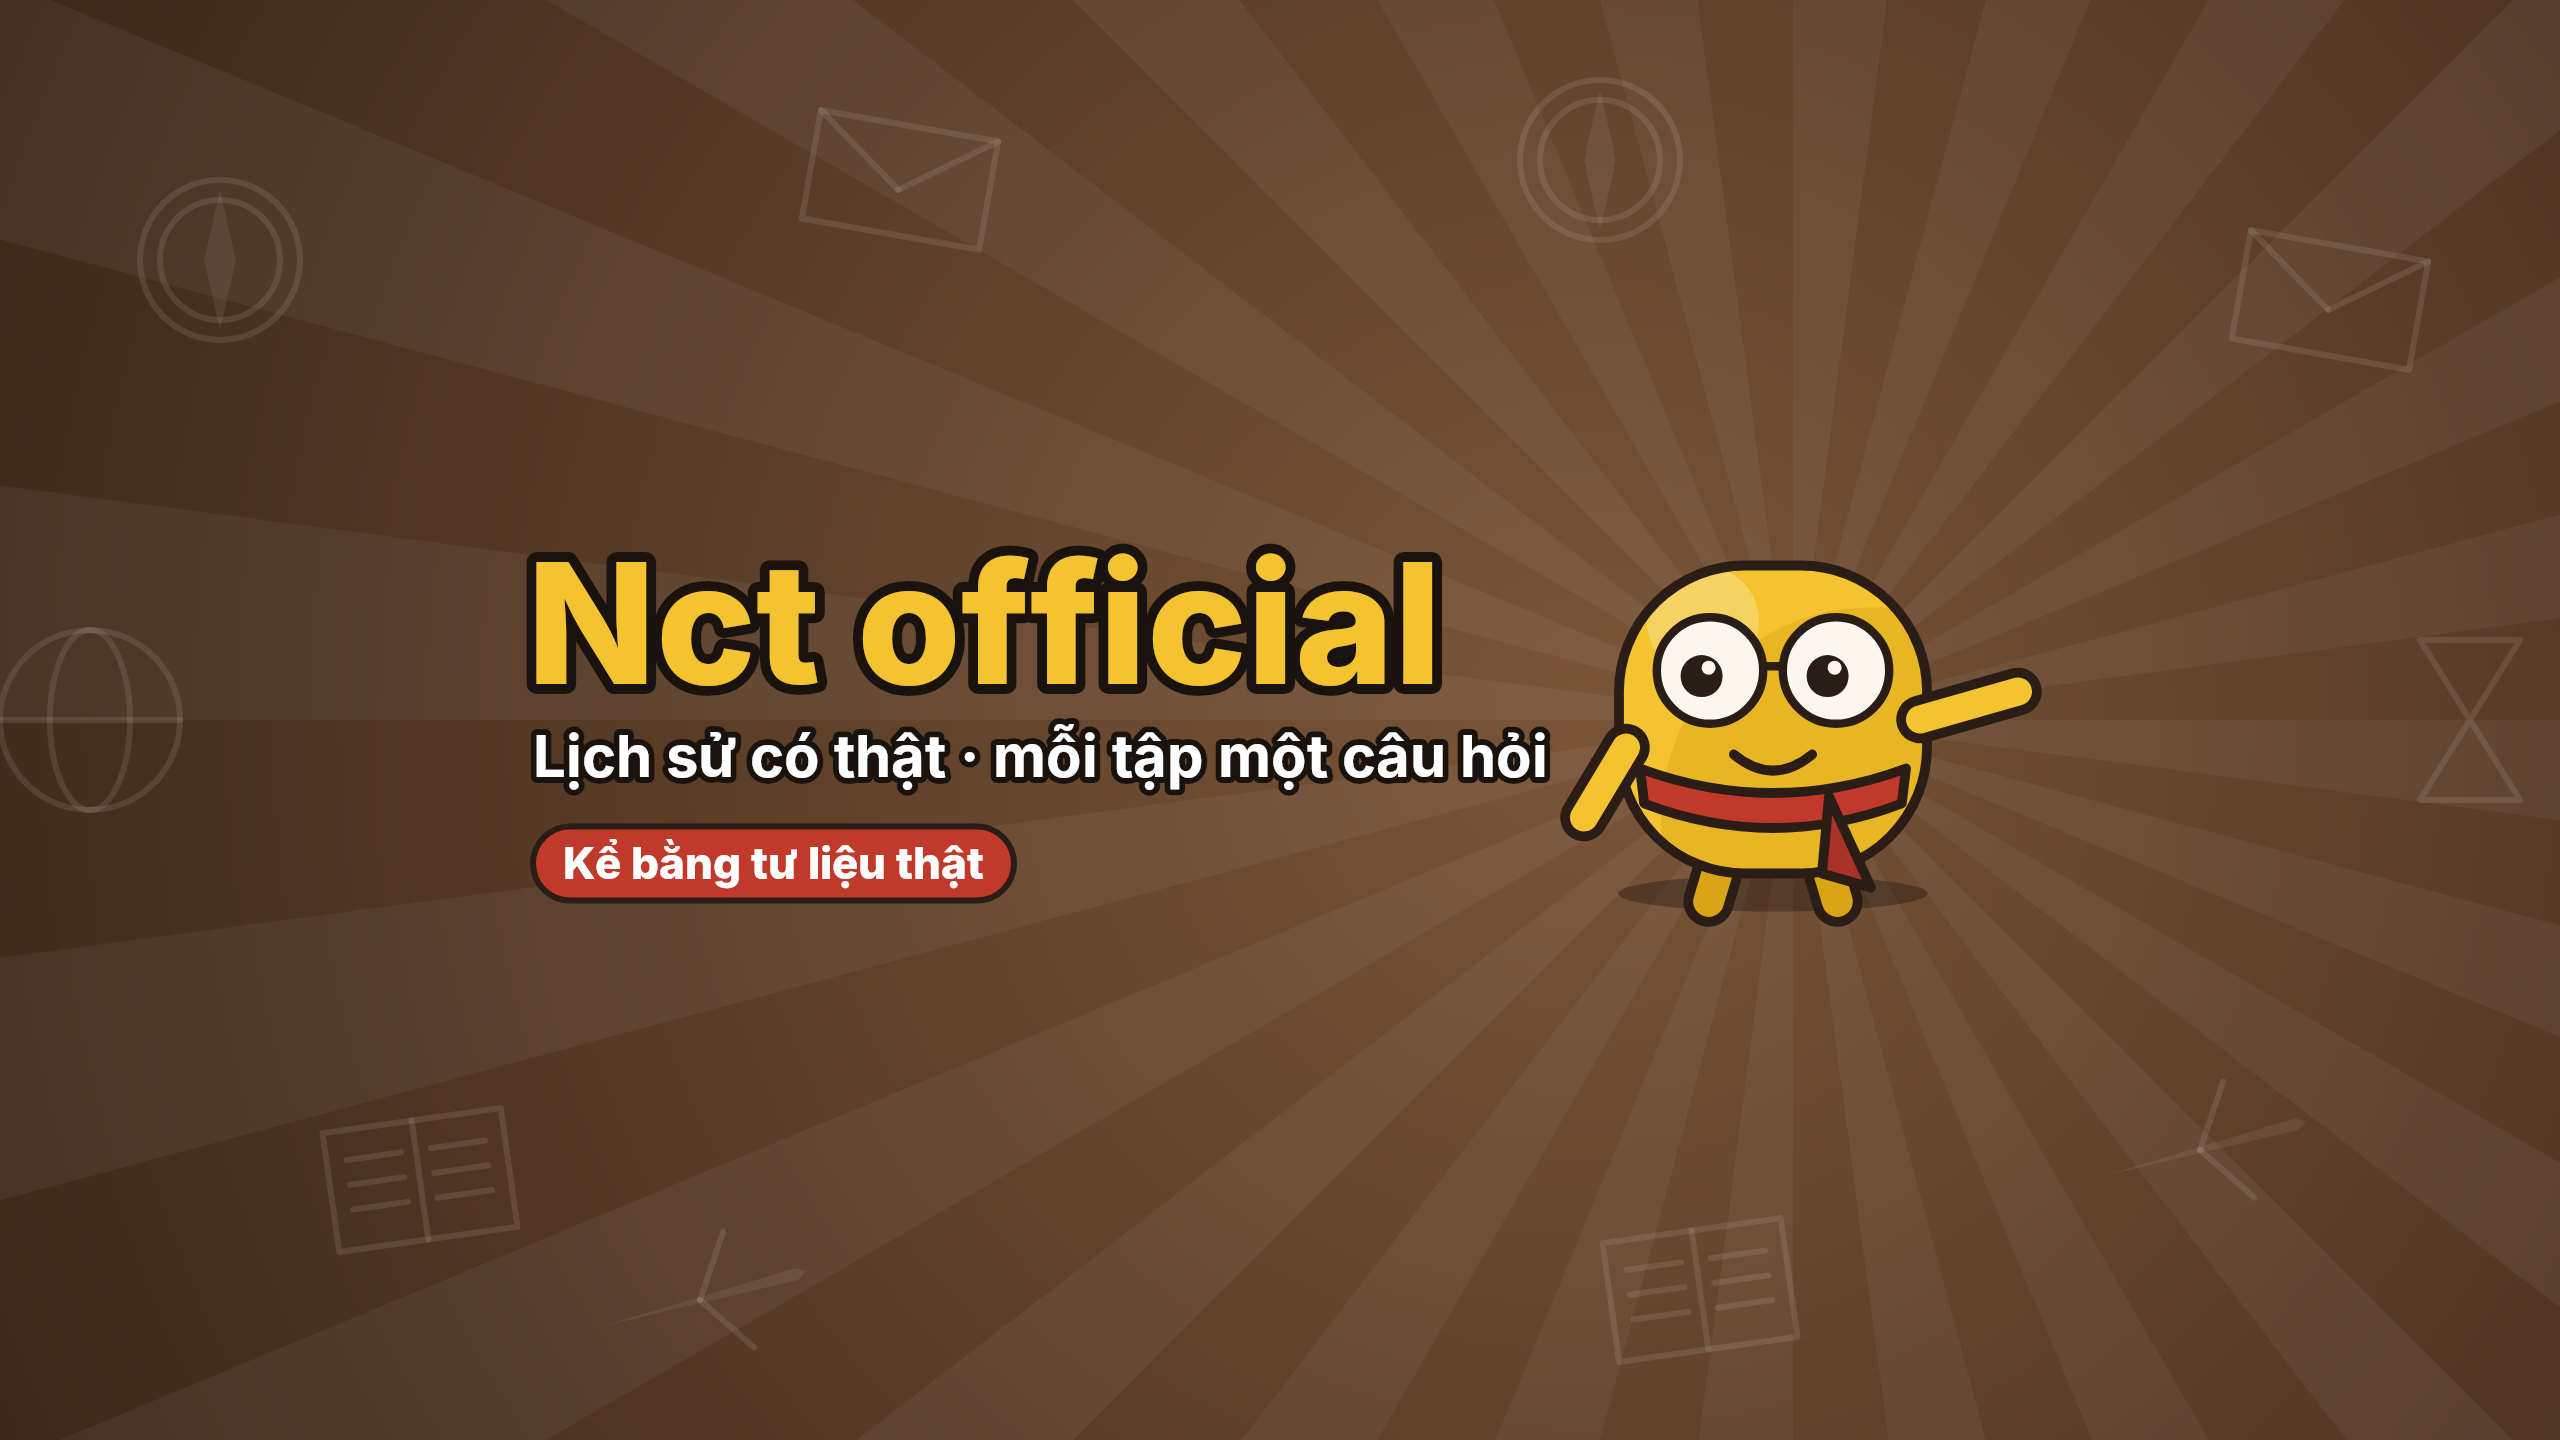
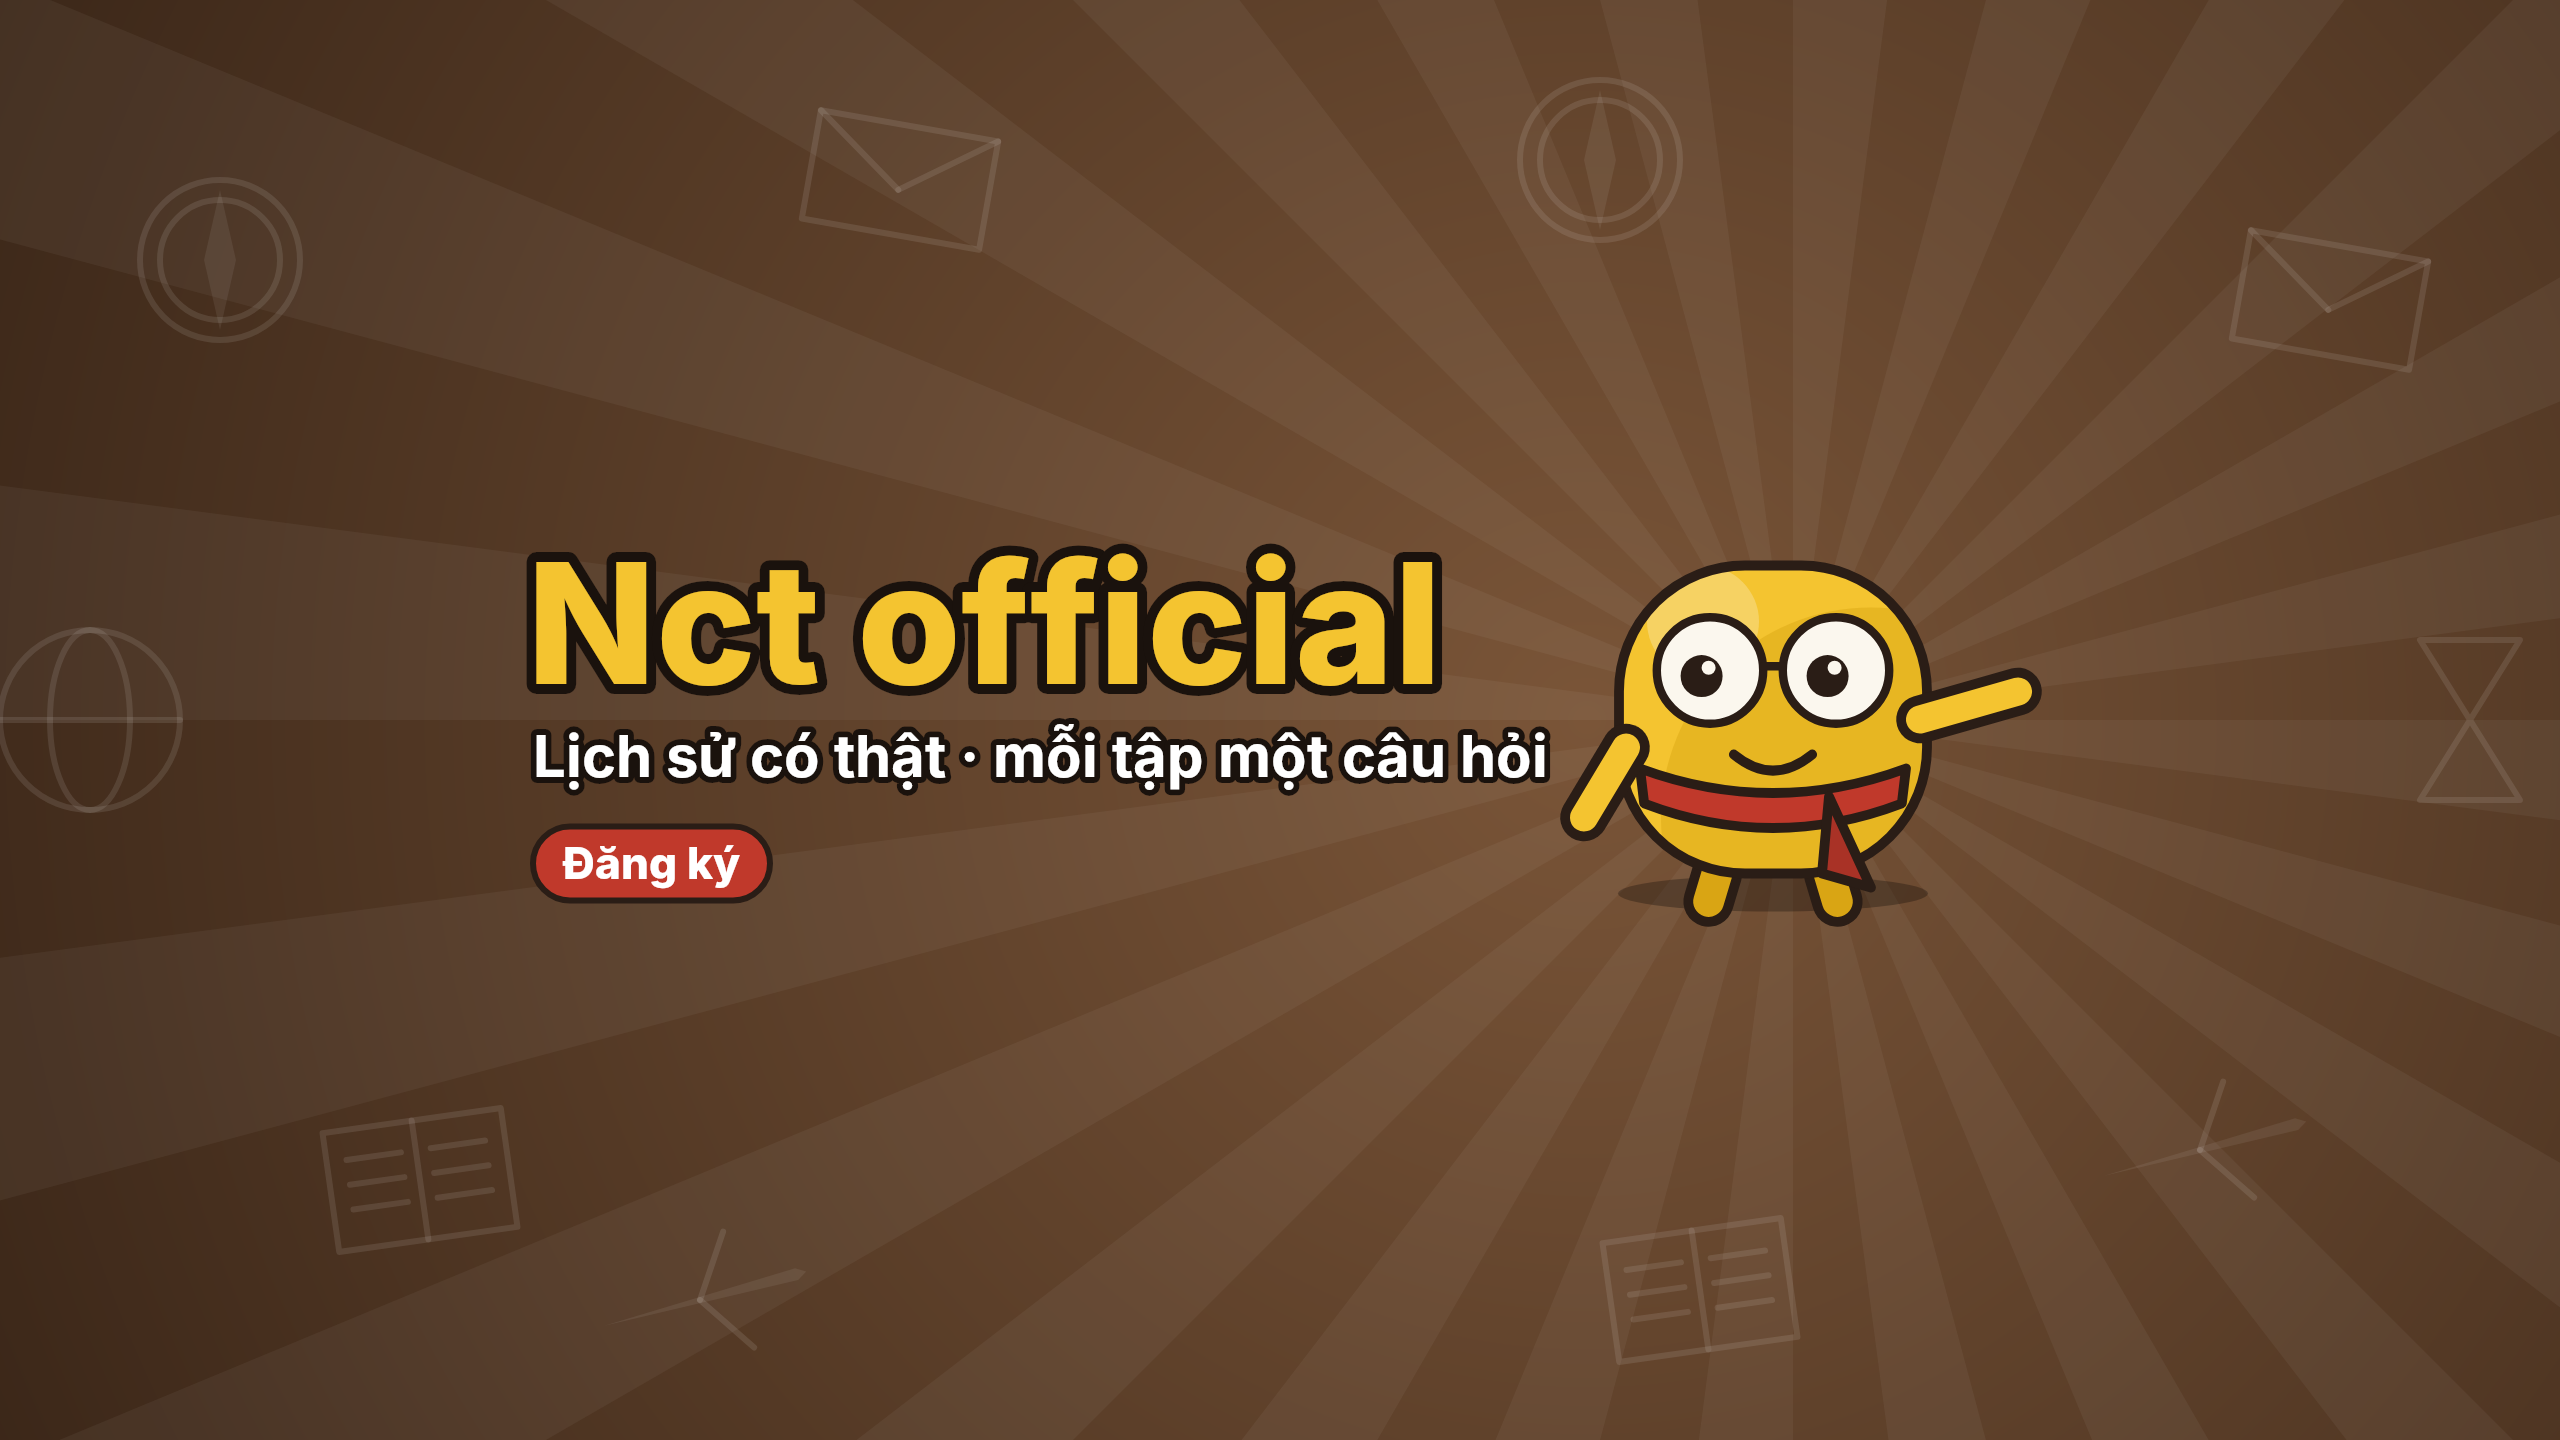
Ảnh bìa: nhãn đỏ đổi thành "Đăng ký"
Claude-Session: https://claude.ai/code/session_012ddh6X3Xbd3ds3fY13qPEF

Changed region(s): [[0.2188, 0.5625, 0.4062, 0.625]]

diff --git a/brand/make_banner.py b/brand/make_banner.py
@@ -63,7 +63,7 @@ def render(name, top, bot):
     x0 = SAFE.left() + 20
     text(c, "Nct official", x0, SAFE.top() + 175, "xbold", 168, "#F4C430", stroke=10, stroke_color="#1A120D")
     text(c, "Lịch sử có thật · mỗi tập một câu hỏi", x0 + 6, SAFE.top() + 268, "bold", 58, "#FFFFFF", stroke=6, stroke_color="#1A120D")
-    tag = "Kể bằng tư liệu thật"
+    tag = "Đăng ký"
     tw_ = tw(tag, "xbold", 44) + 60
     pill = rrect_path(x0 + 6, SAFE.top() + 318, tw_, 74, 37)
     fill_out(c, pill, "#C0392B", ow=6)
